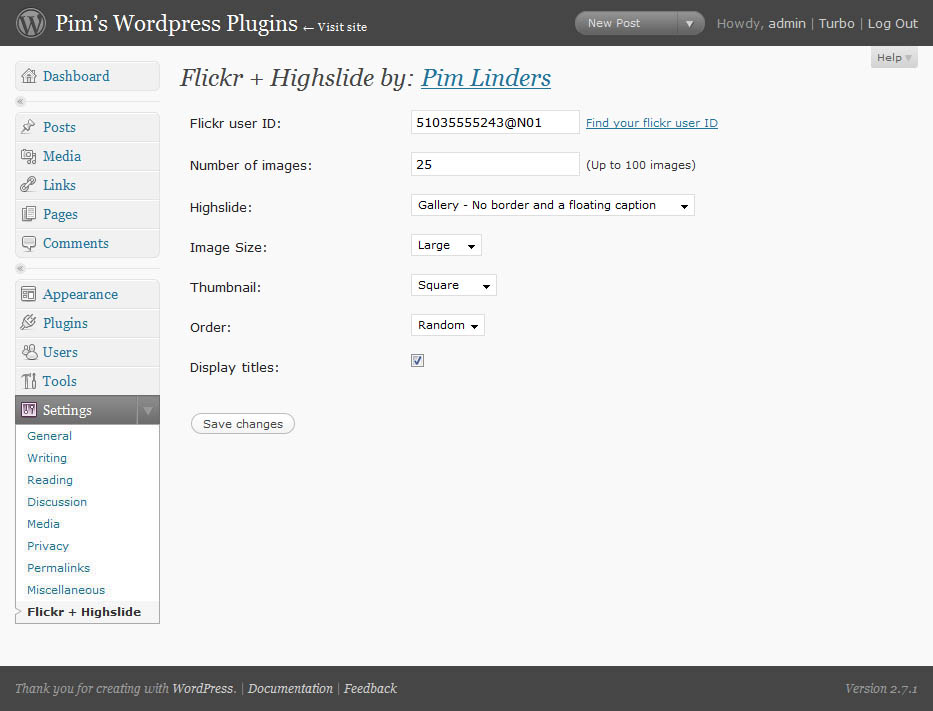
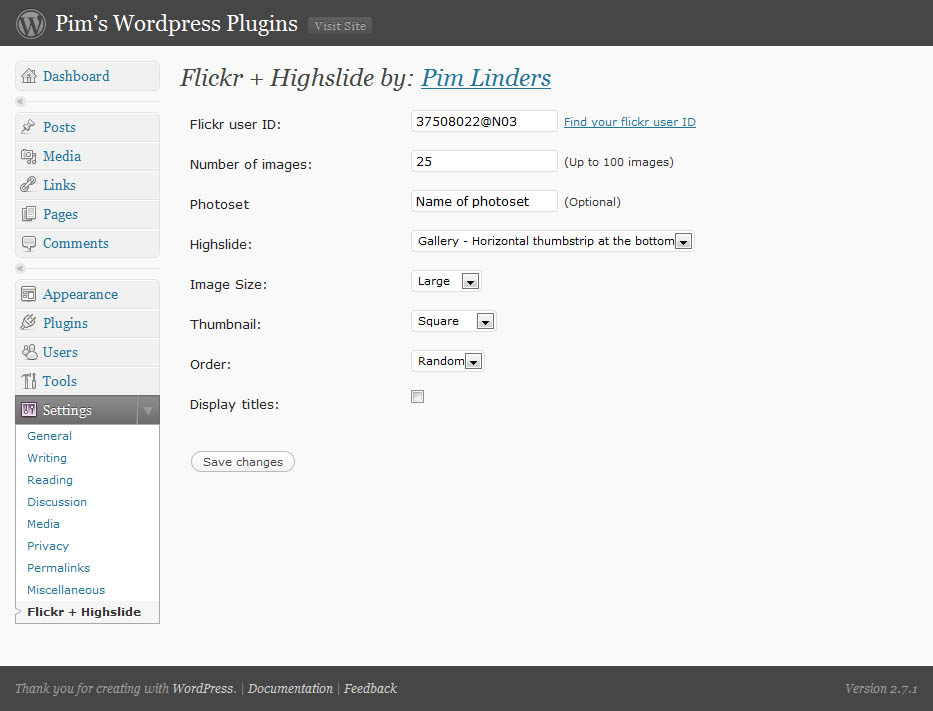
git-svn-id: https://plugins.svn.wordpress.org/flickr-highslide/trunk@131650 b8457f37-d9ea-0310-8a92-e5e31aec5664

diff --git a/flickr-highslide.php b/flickr-highslide.php
@@ -3,7 +3,7 @@
 Plugin Name: Flickr + Highslide
 Plugin URI: http://www.pimlinders.com/wordpress/
 Description: This plugin displays flickr photos using highslide.
-Version: 1.1
+Version: 1.2
 Author: Pim Linders
 Author URI: http://www.pimlinders.com
  ____                       
@@ -58,11 +58,11 @@ function flickr_highslide_head() {
 	else if ($options == '2'){
 		echo "
 			hs.registerOverlay({
-			html: '<div class=\"closebutton\" onclick=\"return hs.close(this)\" title=\"Close\"></div>',
-			position: 'top right',
-			fade: 2
-		});
-		hs.wrapperClassName = 'borderless';
+				html: '<div class=\"closebutton\" onclick=\"return hs.close(this)\" title=\"Close\"></div>',
+				position: 'top right',
+				fade: 2
+			});
+			hs.wrapperClassName = 'borderless';
 		";
 	}
 	else if ($options == '3'){
@@ -77,8 +77,8 @@ function flickr_highslide_head() {
 	else if ($options == '5'){
 		echo "
 			hs.outlineType = null;
-			hs.wrapperClassName = 'colored-border';
-		";
+			hs.wrapperClassName = 'colored-border'
+		;";
 	}
 	else if ($options == '6'){
 		echo "
@@ -204,7 +204,6 @@ function flickr_highslide_head() {
 					relativeTo: 'viewport',
 					offsetX: 50,
 					offsetY: -5
-		
 				},
 				thumbstrip: {
 					position: 'middle left',
@@ -366,6 +365,7 @@ function flickr_highslide_activate() {
 	update_option("order");
 	update_option("imageSize");
 	update_option("thumb");
+	update_option("photoset");
 }
 function flickr_highslide_init(){
 	register_setting('flickr_highslide_options', 'id');
@@ -375,6 +375,7 @@ function flickr_highslide_init(){
 	register_setting('flickr_highslide_options', 'order');
 	register_setting('flickr_highslide_options', 'imageSize');
 	register_setting('flickr_highslide_options', 'thumb');	
+	register_setting('flickr_highslide_options', 'photoset');
 }
 function flickr_highslide_options() {
 	register_setting('flickr_highslide_options', 'id');
@@ -383,7 +384,8 @@ function flickr_highslide_options() {
 	register_setting('flickr_highslide_options', 'options');
 	register_setting('flickr_highslide_options', 'order');
 	register_setting('flickr_highslide_options', 'imageSize');
-	register_setting('flickr_highslide_options', 'thumb');	
+	register_setting('flickr_highslide_options', 'thumb');
+	register_setting('flickr_highslide_options', 'photoset');
 ?>
 <div class="wrap">
 <table class="form-table">
@@ -397,6 +399,10 @@ function flickr_highslide_options() {
         <tr valign="top">
             <th scope="row">Number of images:</th>
             <td><input type="text" name="imageNum" value="<?php echo get_option('imageNum'); ?>" /><span style="margin-left:5px;">(Up to 100 images)</span></td>
+        </tr>
+        <tr valign="top">
+            <th scope="row">Photoset</th>
+            <td><input type="text" name="photoset" value="<?php echo get_option('photoset'); ?>" /><span style="margin-left:5px;">(Optional)</span></td>
         </tr>
         <tr valign="top">
             <th scope="row">Highslide:</th>
@@ -476,93 +482,150 @@ function flickr_highslide(){
 	$imageSize = get_option('imageSize');
 	$thumbnail = get_option('thumb');
 	$options = get_option('options');
+	$photoSet = get_option('photoset');
 	if($id == '' || $imageNum == '')
 		echo '<p>To configure Flickr + Highslide go to Admin -> Setting -> Flickr + Highslide</p>';
 	else{	
-		$xml = simplexml_load_file("http://flickr.com/services/rest/?method=flickr.people.getPublicPhotos&user_id=$id&api_key=$apikey");
-		if ($xml->err['msg']){
-			echo '<p>Flickr + Highslide is not configured correctly</p><p>Error Message: ' . $xml->err['msg'] . '</p>';	
-		}
-		else{
-			$total = $xml->photos['total'];
-			if ($order == 'random')
-				$random = random($total);
-			if ($imageSize == 'medium')
-				$size = '';
-			else if ($imageSize == 'small')
-				$size = '_m';
+		if (ini_get('allow_url_fopen')){ 
+			if($photoSet==''){
+				$xml = simplexml_load_file("http://flickr.com/services/rest/?method=flickr.people.getPublicPhotos&user_id=$id&api_key=$apikey");
+				$photos = TRUE;
+			}
 			else
-				$size = '_b';
-			if ($options == '9' || $options == '13')
-				$size = '';
-			if ($thumbnail == 'thumbnail')
-				$thumbnail = '_t';
-			else
-				$thumbnail = '_s';	
-		?>
-        <!-- Flickr + Highslide by Pim Linders http://www.pimlinders.com/ -->
-        <?php if($options == '13'){ ?>
-        	<div class="flickr_highslide" style="overflow:auto; display:none;">
-        <?php } else{ ?>
-        	<div class="flickr_highslide" style="overflow:auto;">
-        <?php } ?>
-		<?php
-			if($options == '8')
-				$heading = true;
-			for ($k=0; $k<$imageNum; $k++) {
-				if ($order == 'random')
-					$i = $random[$k];
+			{     
+				$photoSets = simplexml_load_file("http://api.flickr.com/services/rest/?method=flickr.photosets.getList&user_id=$id&api_key=$apikey");
+				for ($j=0; $j<count($photoSets->photosets->photoset); $j++) {
+					if($photoSets->photosets->photoset[$j]->title==$photoSet)
+					{
+						$photoSetId = $photoSets->photosets->photoset[$j]['id'];
+						break;
+					}		
+				}
+				$xml = simplexml_load_file("http://flickr.com/services/rest/?method=flickr.photosets.getPhotos&api_key=$apikey&photoset_id=$photoSetId");
+			}
+			if ($xml->err['msg']){
+				echo '<p>Flickr + Highslide is not configured correctly</p><p>Error: ' . $xml->err['msg'] . '</p>';	
+			}
+			else{
+				if($photos)
+					$total = $xml->photos['total'];
 				else
-					$i = $k;
-				if($xml->photos->photo[$i]['server'] == NULL)
-					break;
-				?>
-                <?php if (get_option('title')==true && $heading == true){ ?>
-                    <div class="highslide-heading">
-                       <?php echo $xml->photos->photo[$i]['title'] ?>
-                    </div>
-				<?php } if(get_option('title')==false && $heading == true){?>
-                    <div class="highslide-heading"></div>
-                <?php } ?>
-                <a 
-				<?php if($options == '13' && $k==0){ ?>
-                	id="thumb1"
-                <?php } ?>
-                href="<?php 
-                echo "http://static.flickr.com/";
-                echo $xml->photos->photo[$i]['server'];
-                echo "/";
-                echo $xml->photos->photo[$i]['id'];
-                echo "_";
-                echo $xml->photos->photo[$i]['secret'];
-                echo "$size.jpg"; 
-                ?>" <?php if($options == '13'){ ?>
-                	class="highslide" onclick="return hs.expand(this, inPageOptions)">
-				<?php } else{ ?>
-                	class="highslide" onclick="return hs.expand(this)">
-				<?php } ?>
-                <img src="<?php 
-                echo "http://static.flickr.com/";
-                echo $xml->photos->photo[$i]['server'];
-                echo "/";
-                echo $xml->photos->photo[$i]['id'];
-                echo "_";
-                echo $xml->photos->photo[$i]['secret'];
-                echo "$thumbnail.jpg"; 
-                ?>" 
-                alt="" /></a>
-                <?php if (get_option('title') && $heading == false){ ?>
-                    <div class="highslide-caption">
-                        <?php echo $xml->photos->photo[$i]['title'] ?>
-                    </div>
-                <?php
+					$total = $xml->photoset['total'];
+				if ($order == 'random')
+					$random = random($total);
+				if ($imageSize == 'medium')
+					$size = '';
+				else if ($imageSize == 'small')
+					$size = '_m';
+				else
+					$size = '_b';
+				if ($options == '9' || $options == '13')
+					$size = '';
+				if ($thumbnail == 'thumbnail')
+					$thumbnail = '_t';
+				else
+					$thumbnail = '_s';	
+			?>
+			<!-- Flickr + Highslide by Pim Linders http://www.pimlinders.com/ -->
+			<?php if($options == '13'){ ?>
+				<div class="flickr_highslide" style="overflow:auto; display:none;">
+			<?php } else{ ?>
+				<div class="flickr_highslide" style="overflow:auto;">
+			<?php }
+				if($options == '8')
+					$heading = true;
+				for ($k=0; $k<$imageNum; $k++) {
+					if ($order == 'random')
+						$i = $random[$k];
+					else
+						$i = $k;
+					if($photos){
+						if($xml->photos->photo[$i]['server'] == NULL)
+							break;
+					}
+					else{
+						if($xml->photoset->photo[$i]['server'] == NULL)
+							break;
+					}
+					?>
+					<?php if (get_option('title') == true && $heading == true){ ?>
+						<div class="highslide-heading">
+						<?php 
+						if($photos)
+							echo $xml->photos->photo[$i]['title'];
+						else
+							echo $xml->photoset->photo[$i]['title'];
+						?>
+						</div>
+					<?php } if(get_option('title') == false && $heading == true){?>
+						<div class="highslide-heading"></div>
+					<?php } ?>
+					<a 
+					<?php if($options == '13' && $k==0){ ?>
+						id="thumb1"
+					<?php } ?>
+					href="<?php 
+					echo "http://static.flickr.com/";
+					if($photos){
+						echo $xml->photos->photo[$i]['server'];
+						echo "/";
+						echo $xml->photos->photo[$i]['id'];
+						echo "_";
+						echo $xml->photos->photo[$i]['secret'];
+					}
+					else{
+						echo $xml->photoset->photo[$i]['server'];
+						echo "/";
+						echo $xml->photoset->photo[$i]['id'];
+						echo "_";
+						echo $xml->photoset->photo[$i]['secret'];
+					}
+					echo "$size.jpg"; 
+					?>" <?php if($options == '13'){ ?>
+						class="highslide" onclick="return hs.expand(this, inPageOptions)">
+					<?php } else{ ?>
+						class="highslide" onclick="return hs.expand(this)">
+					<?php } ?>
+					<img src="<?php 
+					echo "http://static.flickr.com/";
+					if($photos){
+						echo $xml->photos->photo[$i]['server'];
+						echo "/";
+						echo $xml->photos->photo[$i]['id'];
+						echo "_";
+						echo $xml->photos->photo[$i]['secret'];
+					}
+					else{
+						echo $xml->photoset->photo[$i]['server'];
+						echo "/";
+						echo $xml->photoset->photo[$i]['id'];
+						echo "_";
+						echo $xml->photoset->photo[$i]['secret'];
+					}
+					echo "$thumbnail.jpg"; 
+					?>" 
+					alt="" /></a>
+					<?php if (get_option('title') && $heading == false){ ?>
+						<div class="highslide-caption">
+							<?php 
+							if($photos)
+								echo $xml->photos->photo[$i]['title'];
+							else
+								echo $xml->photoset->photo[$i]['title'];
+							?>
+						</div>
+					<?php
+					}
+				}
+				?></div>
+				<?php if($options == '13'){ ?>
+					<div id="gallery-area" style="width: 620px; height: 605px; margin: 0 auto; border: 1px solid silver"></div>
+				<?php
 				}
 			}
-			?></div>
-        	<?php if($options == '13'){ ?>
-        		<div id="gallery-area" style="width: 620px; height: 605px; margin: 0 auto; border: 1px solid silver"></div>
-			<?php
-			}
+		}
+		else{
+			echo "<p>Flickr + Highslide requires the PHP parameter allow_url_fopen which is disabled on your host. To enable it create an php.ini file in the root directory of this WordPress install, the php.ini file must contain the following:</p><p><b>extension=simplexml.so</p><p>allow_url_fopen = On</b></p>";
 		}
 	}
 }
